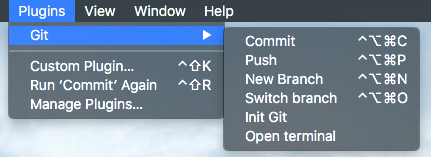
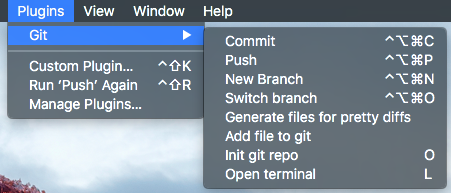
use sketchtool to generate pretty diffs

diff --git a/README.md b/README.md
@@ -1,10 +1,15 @@
 git-sketch-plugin
 =========
 
- A Git client built right into <a href="http://www.bohemiancoding.com/sketch/">Sketch</a>. Compatible with Sketch 3.4.
+ A Git client built right into <a href="http://www.bohemiancoding.com/sketch/">Sketch</a>. Generate pretty diffs so that everybody knows what are the changes!
+
+ Compatible with Sketch 3.4.
 
 ![screen shot](ScreenShot.png)
 
+## Requirements
+* [Git](https://git-scm.com/)
+* [Sketchtool](http://www.sketchapp.com/tool/) installed in `/usr/local/bin/sketchtool` (default location)
 
 ## Installation
 * Download this repo as a zip
@@ -27,7 +32,8 @@ Client                       | Command
  Push                        | `git push -q`
  New Branch                  | `git checkout -qb branchName`
  Switch Branch               | `git checkout -q branchName`
- Init Git                    | `git init && git add currentFile && git commit -m 'first commit'`
+ Add file to git             | `git add currentFile`
+ Init Git repo               | `git init && git add currentFile`
 
 
 ## License
